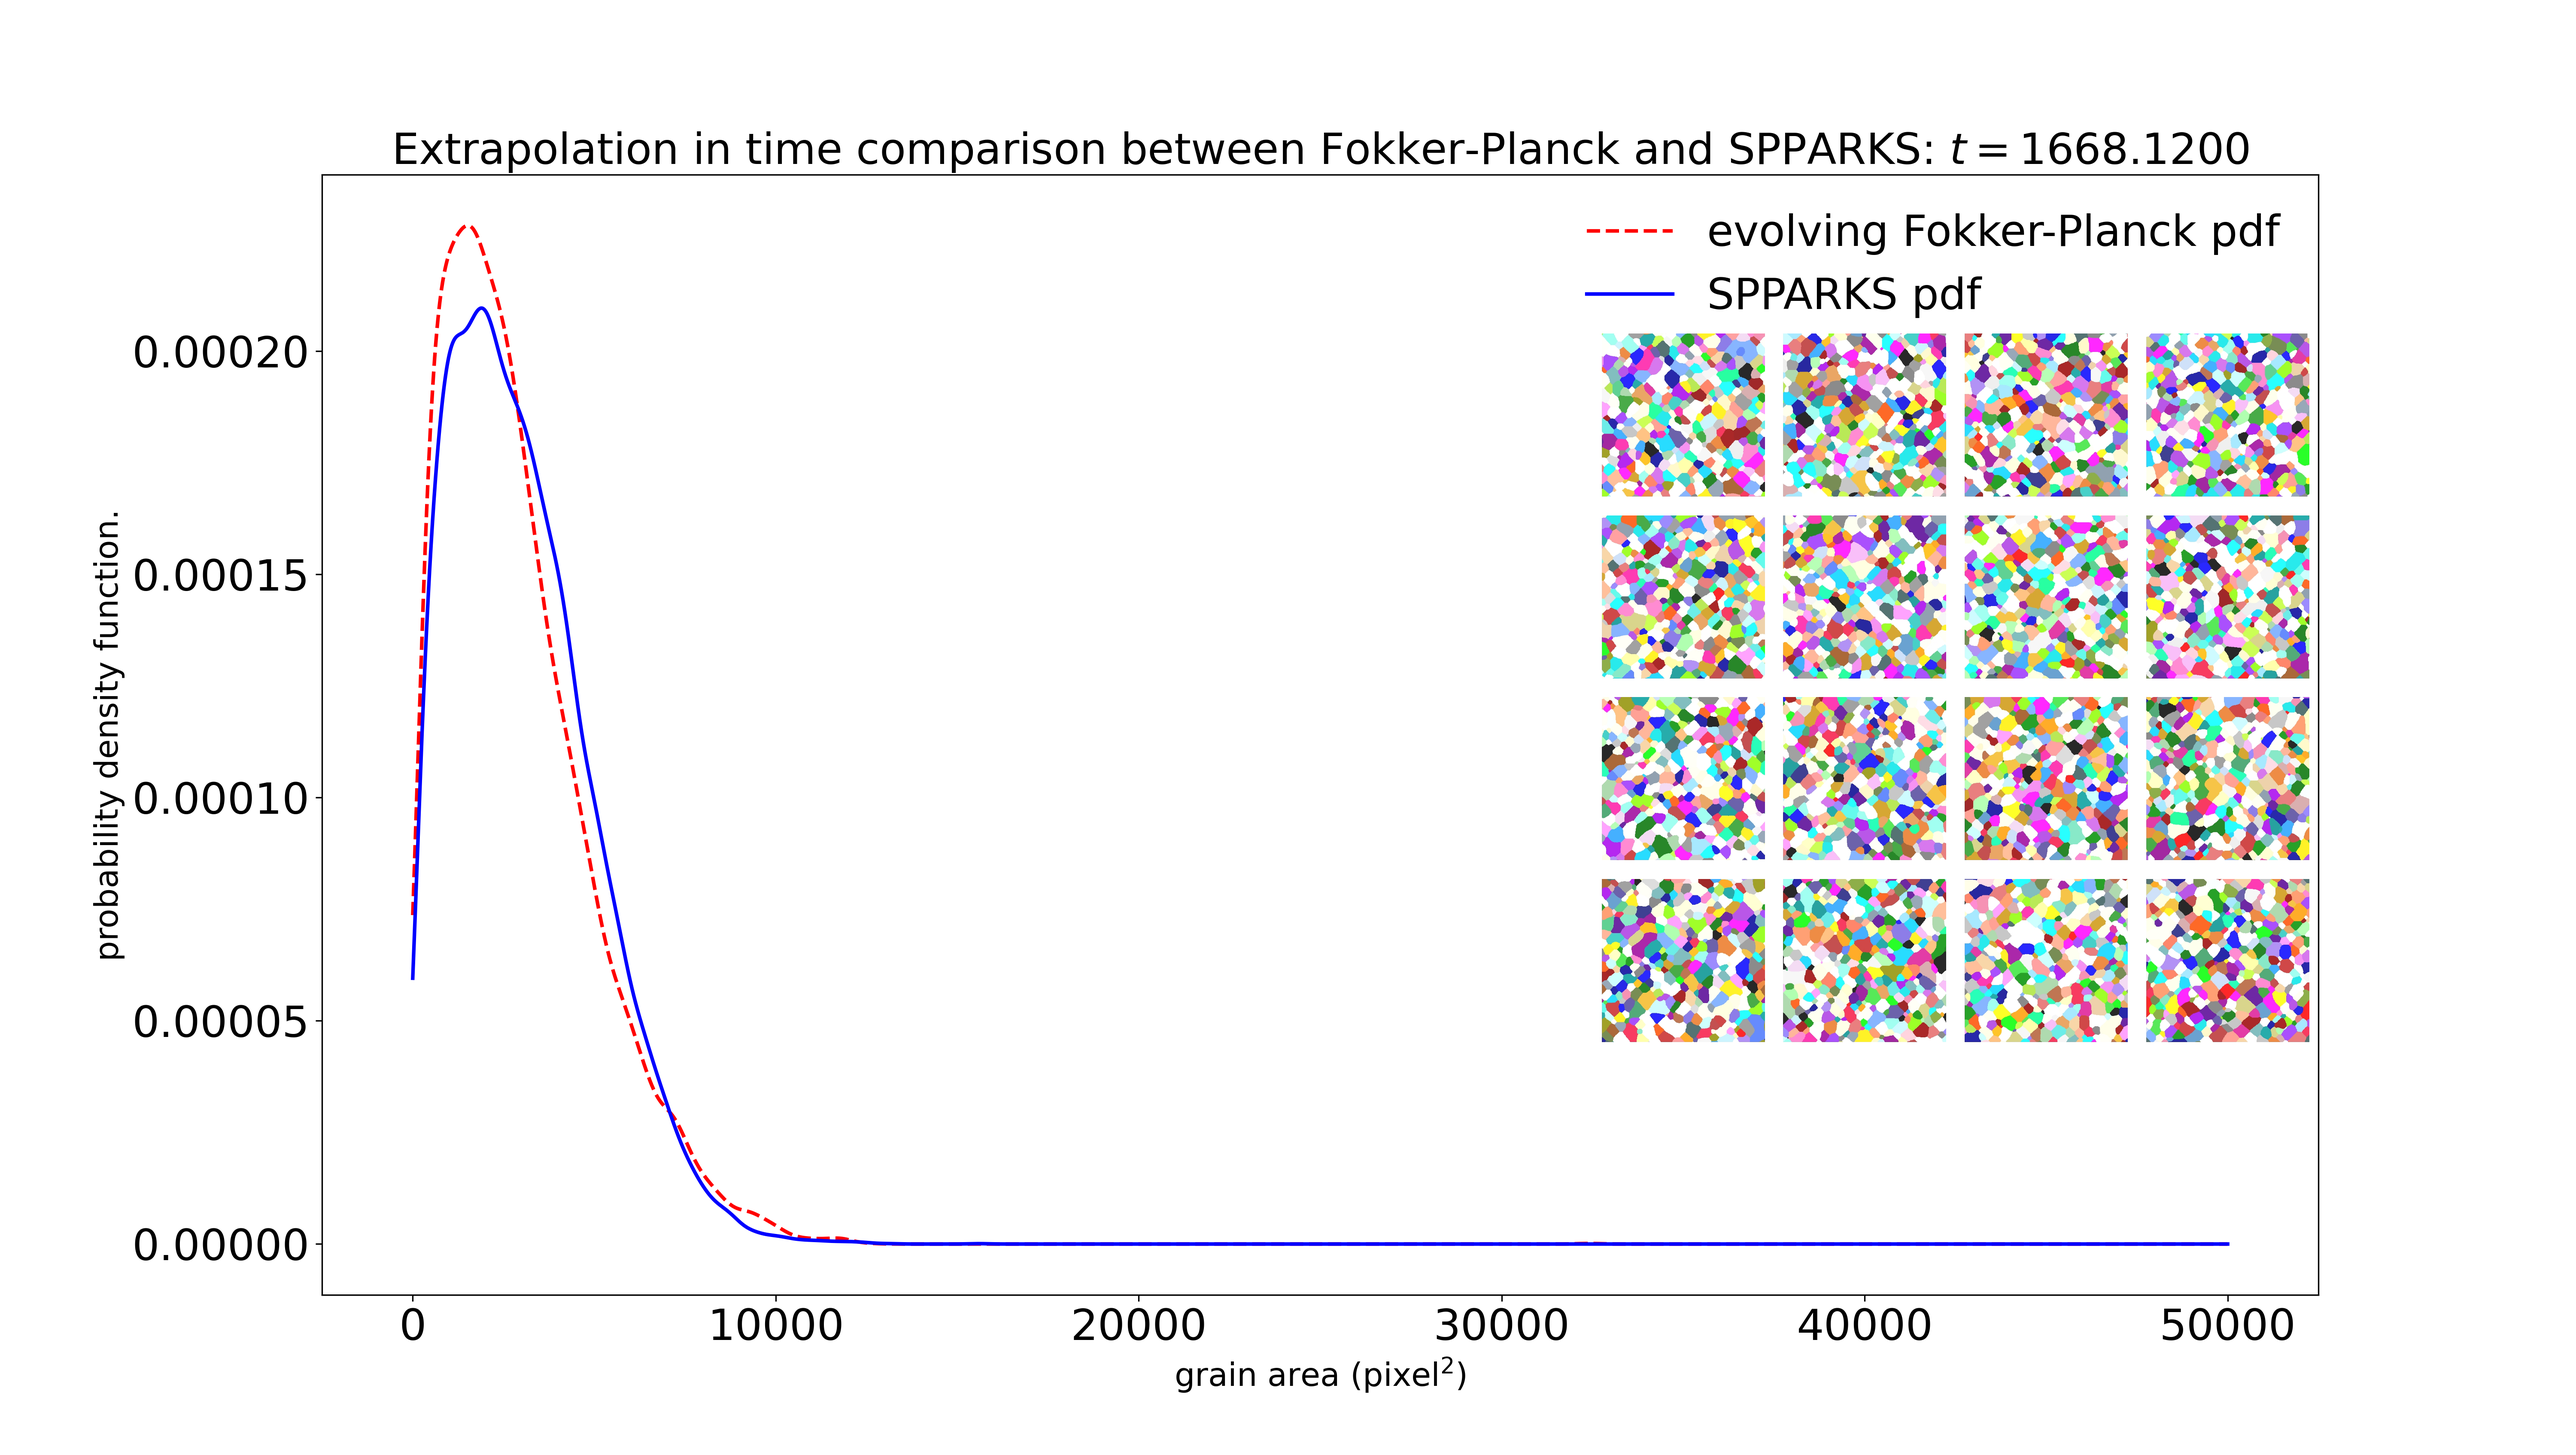
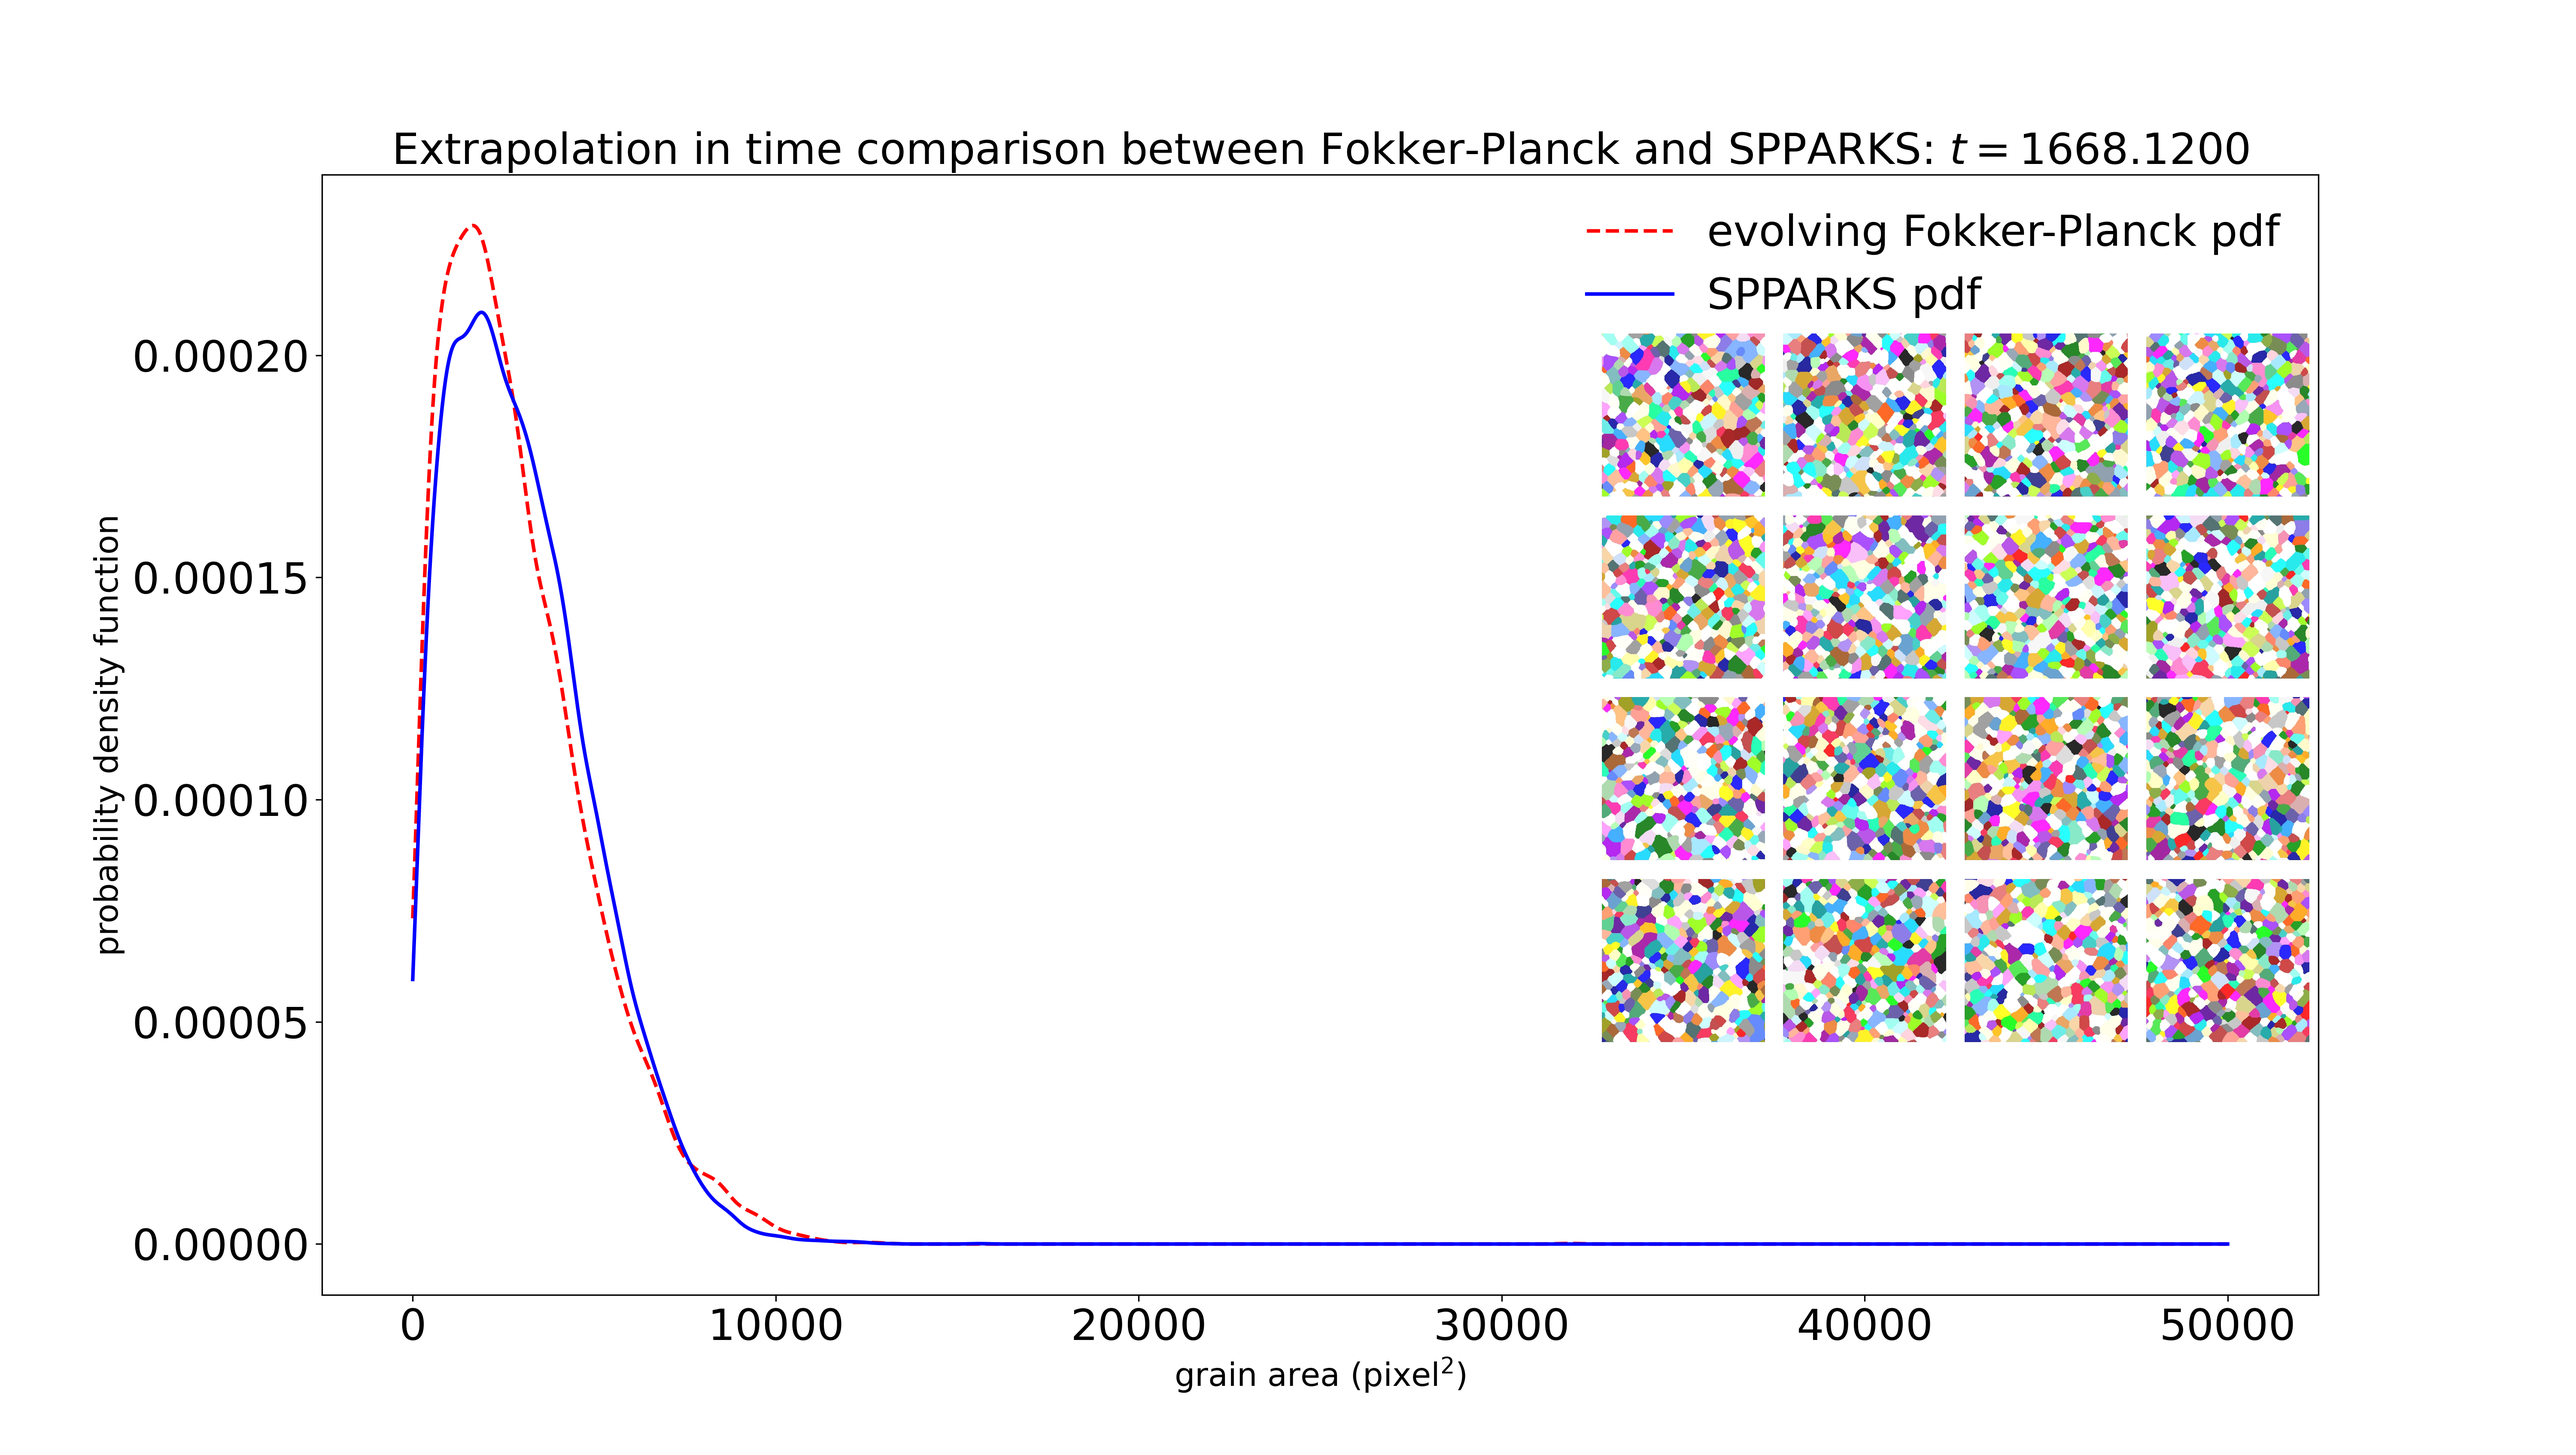
update ggComparison_FokkerPlanck*.png

diff --git a/fp1d/model/compareSpkDensity3.py b/fp1d/model/compareSpkDensity3.py
@@ -74,7 +74,7 @@ for i in range(len(iterationList)-1, 0, -1): # flip from the end to the beginnin
 	plt.ylim([0, 1.5 * np.max(pCurrent)])
 	plt.title('Fokker-Planck density at iteration %d/%d (time-step %.4f)' % (iteration_number, M, startTime + iteration_number * dt), fontsize=24) 
 	plt.xlabel(r'grain area (pixel$^2$)', fontsize=18)
-	plt.ylabel('probability density function.', fontsize=18)
+	plt.ylabel('probability density function', fontsize=18)
 
 
 
@@ -141,7 +141,7 @@ for i in range(len(iterationList)-1, 0, -1): # flip from the end to the beginnin
 	# plt.title("Extrapolation in time comparison between Fokker-Planck and SPPARKS: $t=%.4f$" % (np.exp(startTime + iteration_number * dt)), fontsize=24) # exponential in time for kinetic Monte Carlo -- time calculated using FPE
 	plt.title("Extrapolation in time comparison between Fokker-Planck and SPPARKS: $t=%.4f$" % (spkTimeList[spkIndex]), fontsize=24) # time referenced using SPPARKS
 	plt.xlabel(r'grain area (pixel$^2$)', fontsize=18)
-	plt.ylabel('probability density function.', fontsize=18)
+	plt.ylabel('probability density function', fontsize=18)
 
 	### add sample images from SPPARKS simulations
 	# https://towardsdatascience.com/how-to-add-an-image-to-a-matplotlib-plot-in-python-76098becaf53
